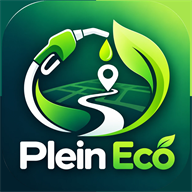
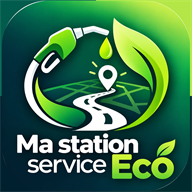
Add files via upload

diff --git a/index.html b/index.html
@@ -3,13 +3,13 @@
 <head>
 <meta charset="utf-8">
 <meta name="viewport" content="width=device-width,initial-scale=1,viewport-fit=cover">
-<title>Plein Éco</title>
+<title>Ma station service Éco</title>
 <meta name="theme-color" content="#022836">
 <meta name="apple-mobile-web-app-capable" content="yes">
 <meta name="mobile-web-app-capable" content="yes">
 <meta name="apple-mobile-web-app-status-bar-style" content="black-translucent">
-<meta name="apple-mobile-web-app-title" content="Plein Éco">
-<meta name="application-name" content="Plein Éco">
+<meta name="apple-mobile-web-app-title" content="Ma station Éco">
+<meta name="application-name" content="Ma station service Éco">
 <link rel="manifest" href="manifest.webmanifest">
 <link rel="apple-touch-icon" href="icon-180.png">
 <link rel="icon" href="icon-192.png">
@@ -192,7 +192,7 @@ select.place-name option { color: #15191e; background: #fff; font: 500 16px var(
   <header class="brandbar">
     <img src="logo-128.png" alt="" width="52" height="52">
     <div>
-      <h1>Plein <span>Éco</span></h1>
+      <h1>Ma station service <span>Éco</span></h1>
       <p class="slogan">Le carburant au meilleur prix, sans faire des kilomètres.</p>
     </div>
   </header>

diff --git a/sw.js b/sw.js
@@ -1,6 +1,6 @@
 // Réseau d'abord pour l'application (toujours la dernière version),
 // cache en secours hors connexion. Les appels à l'API de prix ne sont pas interceptés.
-const CACHE = "plein-eco-v6";
+const CACHE = "station-eco-v7";
 const SHELL = ["./", "index.html", "names.js", "logos.js", "manifest.webmanifest", "logo-128.png",
   "icon-192.png", "icon-512.png", "icon-180.png", "icon-maskable-512.png"];
 
